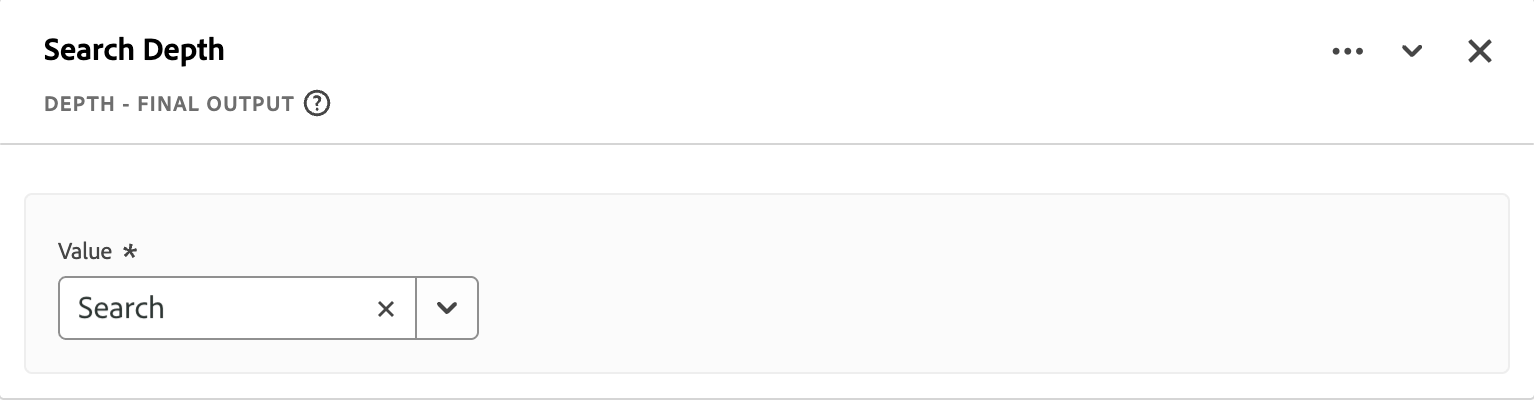
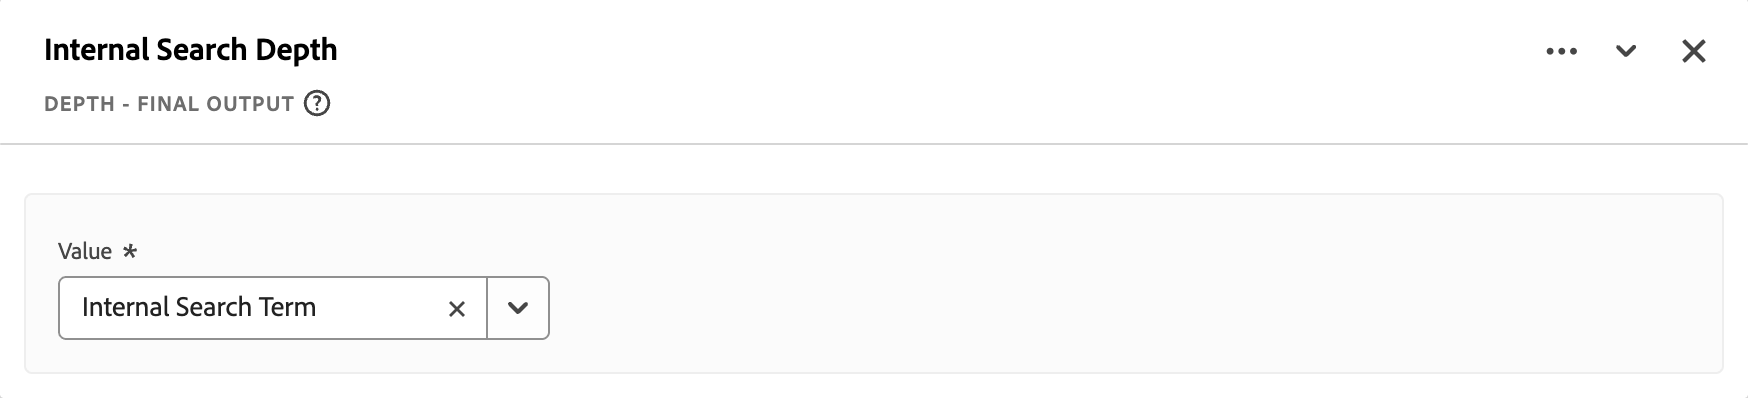
Final updates

diff --git a/help/data-views/derived-fields/derived-fields.md b/help/data-views/derived-fields/derived-fields.md
@@ -927,9 +927,13 @@ As a marketing analyst of a brick and mortar shop you want to understand how man
 
 ### Derived field {#datemath-uc2-derivedfield}
 
-You define a new `Days Since Visit To Shop` derived field. You use the [!UICONTROL DATE MATH] function to define a rule to calculate the days between a Custom Date-Time (which you specify in [!UICONTROL Date]) and the [!UICONTROL Local Time] (from your [!UICONTROL placeContext] field group of your event dataset) with a [!UICONTROL Deduplication scope] of [!UICONTROL Person]. You select [!UICONTROL Return the last] to ensure the last person scoped value for [!UICONTROL Local time] is used in the calculation. You select Day as the [!UICONTROL Output granularity].
+You define a new `Days Since Visit To Shop` derived field. You use the [!UICONTROL DATE MATH] function to define a rule to calculate the days between a Custom Date-Time (which you specify in [!UICONTROL Date]) and the [!UICONTROL Local Time] (from your [!UICONTROL placeContext] field group of your event dataset) with a [!UICONTROL Deduplication scope] of [!UICONTROL Person]. You select [!UICONTROL Return the last] to ensure the last person scoped value for [!UICONTROL Local time] is used in the calculation. You select Day as the [!UICONTROL Output granularity]. 
 
 ![Screenshot of the Date Math rule 2](assets/datemath-2.png)
+
+Alternatively, you can use the convenience Dynamic date range value Now to calculate between now and the [!UICONTROL Local Time] (from your [!UICONTROL placeContext] field group of your event dataset)
+
+![Screenshot of the Date Math rule 2a](assets/datemath-2a.png)
 
 
 ## Use case 3 {#datemath-uc3}
@@ -1056,29 +1060,20 @@ Returns the depth of a field, similar to what is possible with the out-of-the-bo
 {style="table-layout:auto"}
 
 
-<!--
-## Example Data {#depth-example}
-
-| event# | page name | search | product view | cart add  | order |
-|:---:|---|:---:|:---:|:---:|:---:|
-| 1 |  home page        |  0  | 0  | 0  | 0 |
-| 2 |  search page      |  1  | 0  | 0  | 0 |
-| 3 |  product page     |  0  | 0  | 0  | 0 |
-| 4 |  cart page        |  0  | 0  | 1  | 0 |
-| 5 |  confirmation     |  0  | 0  | 0  | 1 |
-
--->
-
 ## Use case {#depth-uc1}
 
-You want to understand the search depth (which you can also interpret as the number of searches). So you can use that search depth later to lookup the search term associated with a specific search depth.
+You want to understand the internal search depth (which you can also interpret as the number of searches). So you can use that internal search depth later to break down on the search term associated with a specific search depth.
 
 
 ### Derived field {#depth-uc1-derivedfield}
 
-You define a new `Search Depth` derived field. You use the [!UICONTROL DEPTH] function to define a rule to retrieve the depth of [!UICONTROL Search] and store that in a new derived field.
+You define a new `Internal Search Depth` derived field. You use the [!UICONTROL DEPTH] function to define a rule to retrieve the depth of [!UICONTROL Internal Search Term] and store that in a new derived field.
 
 ![Screenshot of the Depth rule](assets/depth-1.png)
+
+And then use that new derived field in a visualization to break down on what term has been used to search for at the first search.
+
+![Screenshot of the Depth rule](assets/depth-1a.png)
 
 +++
 
